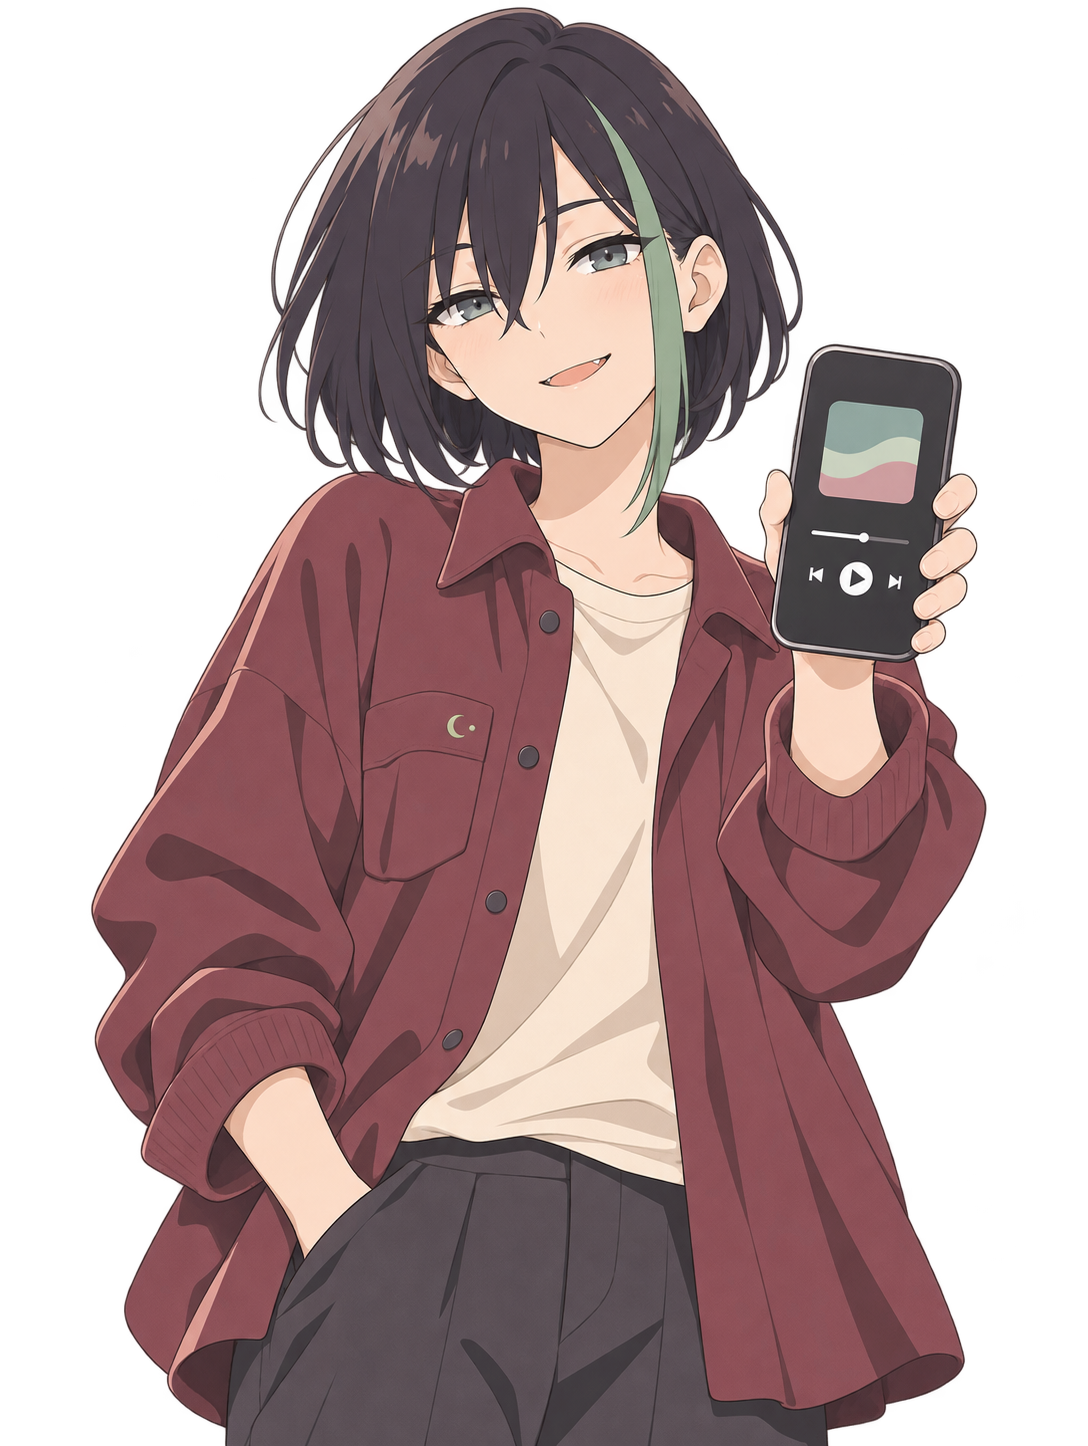
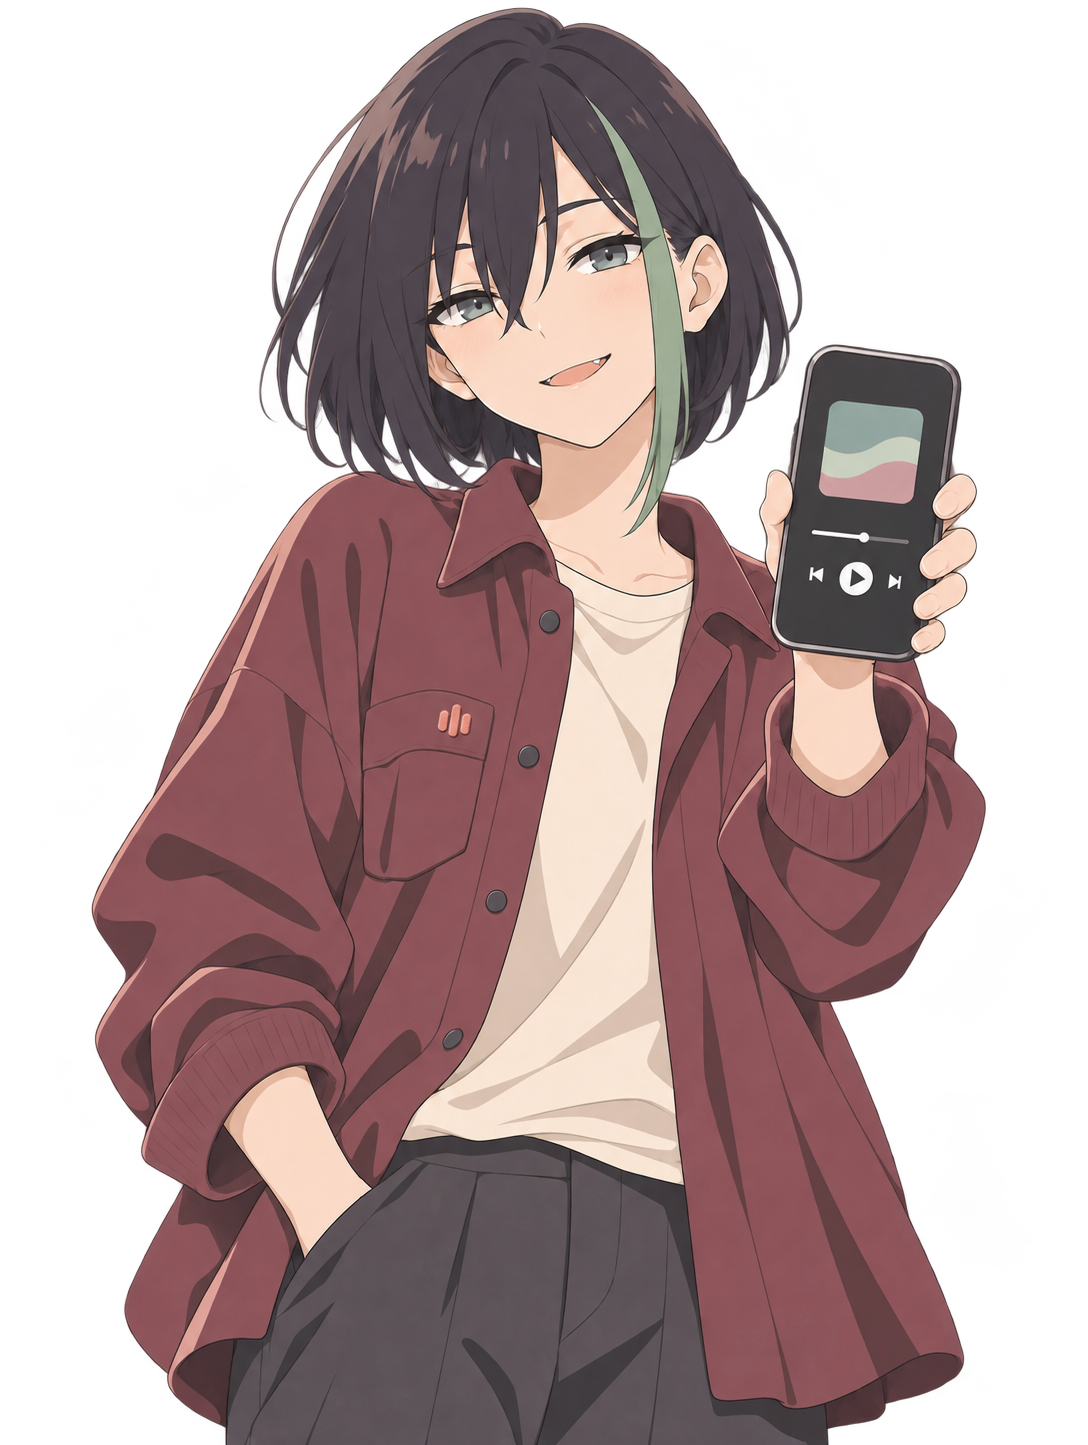
Replace mascot crescent emblems with coral sound-wave branding

diff --git a/docs/mascot-concepts/refined-cozy/README.md b/docs/mascot-concepts/refined-cozy/README.md
@@ -1,6 +1,6 @@
 # Refined cozy Pippo mascots — selected characters 02 and 06
 
-Six AI-generated illustrations based on the owner's selected character concepts. Soft mulberry, dusty rose, warm cream and sage accents; shared crescent-and-dot details; retained character identities. Transparent PNG originals are preserved here for review and future asset preparation.
+Six AI-generated illustrations based on the owner's selected character concepts. Soft mulberry, dusty rose, warm cream and sage accents; shared coral three-bar sound-wave emblems; retained character identities. The earlier crescent-and-dot motif has been removed from all six current previews, and the warm-drink cup sleeves are muted lavender. Transparent PNG originals are preserved here for review and future asset preparation.
 
 These are artwork files only. Android resources, animation layers and random character selection have not been changed. No app builds, tests or GitHub Actions were run.
 
